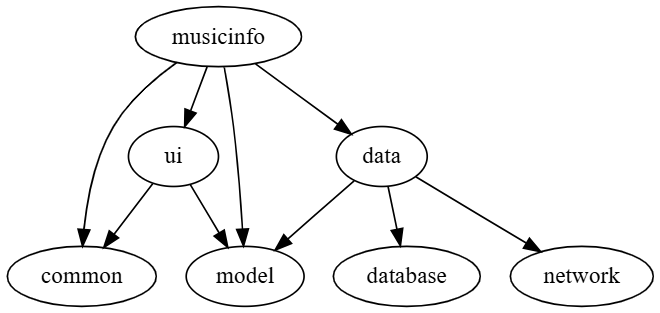
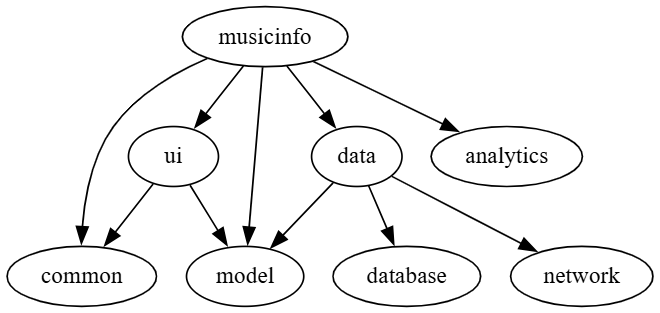
Update dependency graph

diff --git a/core/analytics/README.md b/core/analytics/README.md
@@ -1,0 +1,3 @@
+# :core:auth module
+## Dependency graph
+<img src="https://github.com/iamoscarliang/spotify-clone/blob/master/images/dep-graphs/dep_graph_core_analytics.png">
